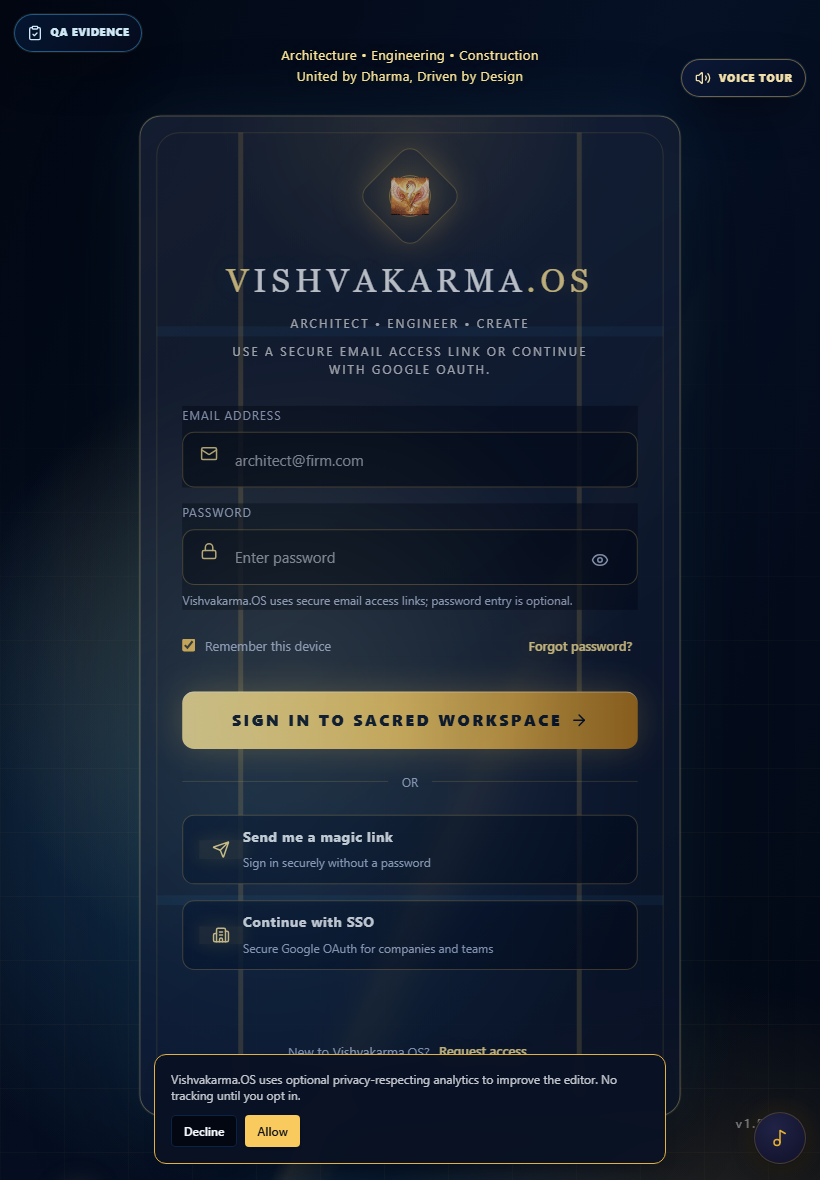
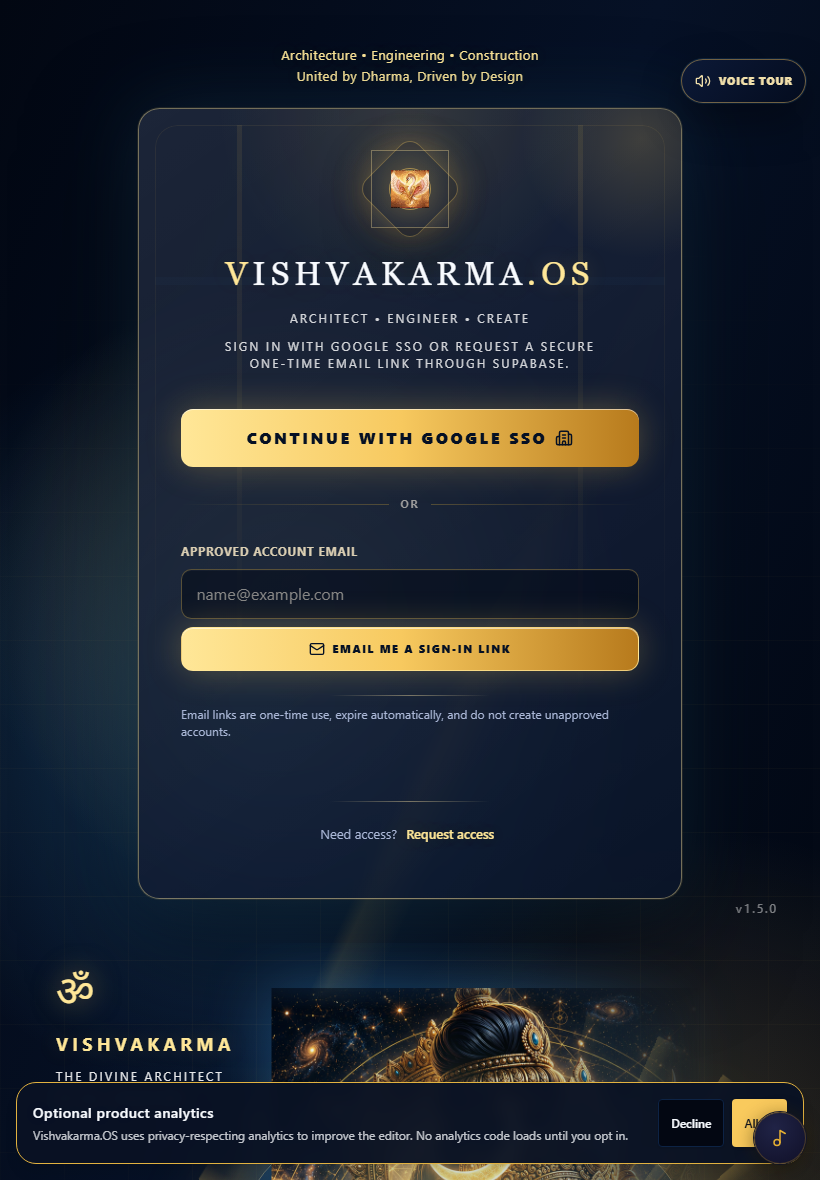
fix(shell): resolve dead controls and harden accessibility

diff --git a/e2e/akasha-cast.spec.ts b/e2e/akasha-cast.spec.ts
@@ -22,29 +22,43 @@ async function prepareEditor(page: Page) {
 
 async function openSimulationPanels(page: Page) {
   const panel = page.getByTestId('akasha-cast-panel');
-  if (await panel.isVisible({ timeout: 1_000 }).catch(() => false)) return true;
+  if (await panel.isVisible().catch(() => false)) return true;
 
   const trigger = page.getByRole('button', { name: /Simulation & proof panels/i }).first();
-  if (!(await trigger.isVisible({ timeout: 2_000 }).catch(() => false))) return false;
+  const triggerReady = await trigger.waitFor({ state: 'visible', timeout: 10_000 }).then(() => true).catch(() => false);
+  if (!triggerReady) return false;
 
   await clickBounded(trigger);
-  return panel.isVisible({ timeout: 5_000 }).catch(() => false);
+  let opened = await panel.waitFor({ state: 'visible', timeout: 5_000 }).then(() => true).catch(() => false);
+
+  if (!opened) {
+    await trigger.focus();
+    await trigger.press('Enter').catch(() => {});
+    opened = await panel.waitFor({ state: 'visible', timeout: 5_000 }).then(() => true).catch(() => false);
+  }
+
+  if (!opened) {
+    await trigger.evaluate((element) => (element as HTMLElement).click());
+    opened = await panel.waitFor({ state: 'visible', timeout: 10_000 }).then(() => true).catch(() => false);
+  }
+
+  return opened;
 }
 
 test.describe('Akasha Cast', () => {
-  test('shows the Studio panel or the correct Starter-tier state', async ({ page }) => {
+  test('shows the Akasha panel and the correct current-tier state', async ({ page }) => {
     await prepareEditor(page);
     const panelAvailable = await openSimulationPanels(page);
     const panel = page.getByTestId('akasha-cast-panel');
 
-    if (panelAvailable) {
-      await expect(panel).toBeVisible();
-      await expect(panel).toContainText(/Akasha Cast/i);
-      return;
-    }
+    expect(panelAvailable, 'Simulation & proof panels should expose Akasha Cast').toBe(true);
+    await expect(panel).toBeVisible();
+    await expect(panel).toContainText(/Akasha Cast/i);
 
-    await expect(panel).toHaveCount(0);
-    await expect(page.getByText('starter', { exact: true }).first()).toBeVisible();
+    const startButton = page.getByTestId('akasha-cast-start');
+    if (!(await startButton.isVisible().catch(() => false))) {
+      await expect(panel).toContainText(/Studio plan required/i);
+    }
   });
 
   test('local cast start exposes viewer link and viewer page shell', async ({ browser }) => {

diff --git a/e2e/auth-private-routes.spec.ts b/e2e/auth-private-routes.spec.ts
@@ -17,24 +17,24 @@ test.describe('production auth gate', () => {
     await expect(page.getByTestId('auth-mockup-card')).toBeVisible({ timeout: 15_000 });
     await expect(page.getByTestId('google-sso-button')).toBeVisible();
     await expect(page.getByTestId('google-sso-button')).toHaveText(/continue with google sso/i);
-    await expect(page.getByText(/supabase google oauth as the only production login path/i)).toBeVisible();
-    await expect(page.getByRole('button', { name: /send secure access link/i })).toHaveCount(0);
+    await expect(page.getByText(/sign in with google sso or request a secure one-time email link through supabase/i)).toBeVisible();
+    await expect(page.getByTestId('email-magic-link-input')).toBeVisible();
+    await expect(page.getByTestId('email-magic-link-button')).toHaveText(/email me a sign-in link/i);
   });
 
-  for (const route of privateRoutes) {
-    test(`redirects signed-out user from ${route} to auth`, async ({ page }) => {
+  for (const route of privateRoutes) {    test(`redirects signed-out user from ${route} to auth`, async ({ page }) => {
       await page.goto(route, { waitUntil: 'domcontentloaded' });
-
-      await page.waitForURL('**/auth**', { timeout: 60_000 });
+      await expect(page).toHaveURL(/\/auth(?:\?|$)/, { timeout: 15_000 });
       await expect(page.getByTestId('auth-mockup-card')).toBeVisible();
     });
   }
 
   test('does not expose private navigation while signed out', async ({ page }) => {
-    await page.goto('/releases', { waitUntil: 'domcontentloaded' });
+    await page.goto('/auth', { waitUntil: 'domcontentloaded' });
 
-    await page.waitForURL('**/auth**');
-    await expect(page.getByText(/release center/i)).toHaveCount(0);
-    await expect(page.getByText(/audit log/i)).toHaveCount(0);
+    await expect(page.getByTestId('auth-mockup-card')).toBeVisible({ timeout: 15_000 });
+    for (const route of privateRoutes) {
+      await expect(page.locator(`a[href="${route}"]`)).toHaveCount(0);
+    }
   });
 });

diff --git a/e2e/full-customer-audit.spec.ts b/e2e/full-customer-audit.spec.ts
@@ -21,14 +21,14 @@ const deviceMatrix = [
   ['phone-landscape', iPhoneLandscape],
 ] as const;
 
-async function expectGoogleOnlyAuth(page: Page) {
+async function expectProductionAuth(page: Page) {
   await expect(page.getByTestId('auth-page')).toBeVisible({ timeout: 30_000 });
   const googleSso = page.getByTestId('google-sso-button');
   await expect(googleSso).toBeVisible({ timeout: 15_000 });
   await expect(googleSso).toHaveText(/continue with google sso/i);
-  await expect(page.getByText(/magic link/i)).toHaveCount(0);
+  await expect(page.getByTestId('email-magic-link-input')).toBeVisible();
+  await expect(page.getByTestId('email-magic-link-button')).toBeVisible();
   await expect(page.locator('input[type="password"]')).toHaveCount(0);
-  await expect(page.locator('input[type="email"]')).toHaveCount(0);
   await expect(page.getByText(/enter local workspace/i)).toHaveCount(0);
 }
 
@@ -36,10 +36,10 @@ test.describe('full real-customer device audit', () => {
   test.setTimeout(120_000);
 
   for (const [deviceName, viewport] of deviceMatrix) {
-    test(`auth is Google-only and layout-safe on ${deviceName}`, async ({ page }) => {
+    test(`auth supports Google SSO and secure email and is layout-safe on ${deviceName}`, async ({ page }) => {
       await page.setViewportSize(viewport);
       await page.goto('/auth', { waitUntil: 'domcontentloaded' });
-      await expectGoogleOnlyAuth(page);
+      await expectProductionAuth(page);
       await assertNoHorizontalOverflow(page);
       await assertTouchTargets(page, ['button', 'a.touch-target'], viewport.width < 700 ? 42 : 44);
     });

diff --git a/e2e/helpers.ts b/e2e/helpers.ts
@@ -132,11 +132,35 @@ export async function openProjectActionsMenu(page: Page) {
   await dismissTutorialIfPresent(page).catch(() => {});
   const button = await findProjectActionsButton(page);
   await pressMenuButton(button);
-  const firstMenuItem = page.getByRole('menuitem').first();
-  if (!(await firstMenuItem.waitFor({ state: 'visible', timeout: 1_500 }).then(() => true).catch(() => false))) {
-    await button.click({ force: true, timeout: 5_000 }).catch(async () => pressMenuButton(button));
-    await firstMenuItem.waitFor({ state: 'visible', timeout: 5_000 });
+
+  const menu = page.getByRole('menu').last();
+  const opened = await menu
+    .waitFor({ state: 'visible', timeout: 5_000 })
+    .then(() => true)
+    .catch(() => false);
+
+  if (!opened) {
+    await page.keyboard.press('Escape').catch(() => {});
+    await button.focus();
+    await button.press('Enter').catch(() => {});
+    const openedByKeyboard = await menu
+      .waitFor({ state: 'visible', timeout: 5_000 })
+      .then(() => true)
+      .catch(() => false);
+
+    if (!openedByKeyboard) {
+      await page.keyboard.press('Escape').catch(() => {});
+      await button.dispatchEvent('pointerdown', {
+        button: 0,
+        buttons: 1,
+        pointerType: 'mouse',
+        isPrimary: true,
+      });
+      await menu.waitFor({ state: 'visible', timeout: 15_000 });
+    }
   }
+
+  await page.getByRole('menuitem').first().waitFor({ state: 'visible', timeout: 15_000 });
 }
 
 async function activateProjectMenuItem(page: Page, name: RegExp) {

diff --git a/e2e/workspace-navigation.spec.ts b/e2e/workspace-navigation.spec.ts
@@ -7,7 +7,7 @@ import {
 
 const sidebarLinks = [
   { name: 'Blueprint Editor', path: '/editor', testId: 'editor-top-bar' },
-  { name: 'Projects', path: '/projects', heading: /your projects/i },
+  { name: 'Projects', path: '/projects', heading: /welcome back/i },
   { name: 'Profile', path: '/profile', heading: /^profile$/i },
   { name: 'Spec Center', path: '/spec-center', heading: /spec center/i },
   { name: 'Registry', path: '/registry', heading: /registry center/i },
@@ -19,7 +19,7 @@ const sidebarLinks = [
 
 async function openWorkspaceShell(page: Page) {
   await page.goto('/projects', { waitUntil: 'domcontentloaded' });
-  await expect(page.getByRole('heading', { name: /your projects/i })).toBeVisible({ timeout: 30_000 });
+  await expect(page.getByRole('heading', { name: /welcome back/i })).toBeVisible({ timeout: 30_000 });
   await expandSidebarIfCollapsed(page);
 }
 
@@ -79,7 +79,7 @@ test.describe('workspace navigation (e2e local access)', () => {
   test('mobile sheet drawer navigates to spec center', async ({ page }) => {
     await page.setViewportSize({ width: 390, height: 844 });
     await page.goto('/projects', { waitUntil: 'domcontentloaded' });
-    await expect(page.getByRole('heading', { name: /your projects/i })).toBeVisible({ timeout: 30_000 });
+    await expect(page.getByRole('heading', { name: /welcome back/i })).toBeVisible({ timeout: 30_000 });
 
     const declineAnalytics = page.getByRole('button', { name: /decline/i });
     if (await declineAnalytics.isVisible().catch(() => false)) {

diff --git a/src/pages/EditorPage.tsx b/src/pages/EditorPage.tsx
@@ -90,6 +90,7 @@ import { playStudioSound } from '@/modules/studio-audio/audioEngine';
 import { playMonsoonJali, stopMonsoonJali } from '@/modules/studio-audio/atmosphericMask';
 
 const Viewport3D = lazy(() => import('@/components/editor/Viewport3D'));
+const AkashaCastPanel = lazy(() => import('@/components/editor/panels/AkashaCastPanel'));
 
 export default function EditorPage() {
   return <EditorWorkspace />;
@@ -989,6 +990,17 @@ function EditorWorkspace() {
         <VayuJalaPanel manifest={geometryManifest} />
         <AgniThermalPanel manifest={geometryManifest} />
         <PanchatattvaPanel manifest={geometryManifest} />
+        <AkashaCastPanel
+          projectId={currentProject?.id}
+          userId={user?.id}
+          userName={user?.email?.split('@')[0] ?? 'Architect'}
+          manifest={geometryManifest}
+          onCastStart={() => engine.setPresentationLock(true)}
+          onCastStop={() => engine.setPresentationLock(false)}
+          onManifestChange={(nextManifest, isRemote) => {
+            if (isRemote) engine.applyRemoteManifest(nextManifest);
+          }}
+        />
       </div>
       <ProjectProofPanel
         projectName={projectName}

diff --git a/e2e/page-reference-pack.spec.ts b/e2e/page-reference-pack.spec.ts
@@ -275,12 +275,12 @@ test.describe('page reference pack', () => {
     // ── Workspace ──────────────────────────────────────────────────────────
     await clearAppStorage(page);
     await page.goto('/projects');
-    await expect(page.getByRole('heading', { name: /your projects/i })).toBeVisible();
+    await expect(page.getByRole('heading', { name: /welcome back/i })).toBeVisible();
     await shot(page, 'workspace', '20-projects-empty.png');
 
     await prepareEditorWithSample(page);
     await page.goto('/projects');
-    await expect(page.getByRole('heading', { name: /your projects/i })).toBeVisible({ timeout: 15_000 });
+    await expect(page.getByRole('heading', { name: /welcome back/i })).toBeVisible({ timeout: 15_000 });
     const populatedStats = page.getByText(/walls\s*[·•]\s*.*openings/i).first();
     if (!(await populatedStats.isVisible({ timeout: 5_000 }).catch(() => false))) {
       await expect(page.getByTestId('projects-empty-demo-samples')).toBeVisible({ timeout: 15_000 });

diff --git a/e2e/device-governance-layout.spec.ts b/e2e/device-governance-layout.spec.ts
@@ -10,7 +10,7 @@ import {
 } from './helpers';
 
 const GOVERNANCE_ROUTES = [
-  { path: '/projects', heading: /your projects/i },
+  { path: '/projects', heading: /welcome back/i },
   { path: '/change-requests', heading: 'Change Requests' },
   { path: '/optimization', heading: 'Design Battle' },
   { path: '/profile', heading: 'Profile' },
@@ -73,7 +73,7 @@ test.describe('Device governance layout', () => {
     await page.setViewportSize(androidTabletLandscape);
     await emulateCoarsePointer(page);
     await page.goto('/projects');
-    await expect(page.getByRole('heading', { name: /your projects/i })).toBeVisible({ timeout: 30_000 });
+    await expect(page.getByRole('heading', { name: /welcome back/i })).toBeVisible({ timeout: 30_000 });
     await assertNoHorizontalOverflow(page);
     await assertTouchTargets(page, GOVERNANCE_TOUCH_SELECTORS);
   });

diff --git a/src/styles/vish-device-unity.css b/src/styles/vish-device-unity.css
@@ -390,3 +390,25 @@ iframe {
     scroll-behavior: auto !important;
   }
 }
+
+/* PHIRO responsive authority: preserve real touch geometry after the global min-width reset. */
+.bg-ws-canvas .vish-editor-topbar-chrome button,
+.vish-workspace-shell .vish-editor-topbar-chrome button,
+.bg-ws-canvas .touch-target,
+.vish-workspace-shell .touch-target {
+  min-width: 44px;
+  min-height: 44px;
+  flex-shrink: 0;
+}
+
+@media (max-width: 760px) {
+  .bg-ws-canvas .vish-editor-topbar-chrome > .flex.w-full,
+  .vish-workspace-shell .vish-editor-topbar-chrome > .flex.w-full,
+  .bg-ws-canvas .vish-editor-topbar-center,
+  .vish-workspace-shell .vish-editor-topbar-center {
+    overflow-x: auto;
+    overflow-y: hidden;
+    overscroll-behavior-inline: contain;
+    scrollbar-width: none;
+  }
+}

diff --git a/src/components/editor/PropertiesPanel.tsx b/src/components/editor/PropertiesPanel.tsx
@@ -300,7 +300,7 @@ export default function PropertiesPanel({
 
   return (
     <VishInspector className="vish-sidebar-panel">
-      <VishInspectorHeader><span>Wall Properties</span><span className="ml-1 text-vish-text-500">· {selectedWall.id.slice(0, 8)}</span></VishInspectorHeader>
+      <VishInspectorHeader>{`Wall Properties · ${selectedWall.id.slice(0, 8)}`}</VishInspectorHeader>
       <VishInspectorSection className="flex-1 overflow-y-auto">
         <VishInspectorContent className="pt-4">
           <VishInspectorRow label="ID"><span className="font-mono text-[10px]" title={selectedWall.id}>{selectedWall.id.slice(0, 12)}...</span></VishInspectorRow>

diff --git a/src/components/editor/Viewport3D.tsx b/src/components/editor/Viewport3D.tsx
@@ -1136,7 +1136,7 @@ export default function Viewport3D({
                   minDistance={2}
                   maxDistance={24}
                   target={[sceneOrigin.cx / 100, 1.6, sceneOrigin.cy / 100]}
-                  touches={{ ONE: THREE.TOUCH.ROTATE, TWO: THREE.TOUCH.DOLLY }}
+                  touches={{ ONE: THREE.TOUCH.ROTATE, TWO: THREE.TOUCH.DOLLY_PAN }}
                 />
                 <TouchWalkRig moveRef={touchMoveRef} />
               </>

diff --git a/e2e/qe-production-route-smoke.spec.ts b/e2e/qe-production-route-smoke.spec.ts
@@ -25,7 +25,7 @@ const authDeviceMatrix = [
 ] as const;
 
 const protectedRouteSmoke = [
-  { path: '/projects', label: 'Projects', heading: /your projects/i },
+  { path: '/projects', label: 'Projects', heading: /welcome back/i },
   { path: '/releases', label: 'Releases', heading: /^Release Center$/i },
   { path: '/audit', label: 'Audit', heading: /^Audit Log$/i },
   { path: '/optimization', label: 'Optimization', heading: /^Design Battle$/i },
